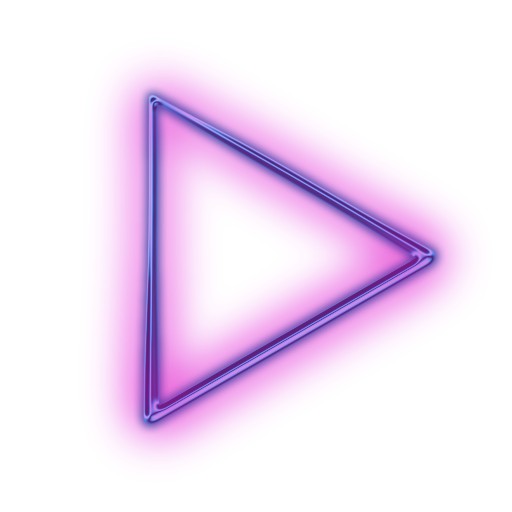
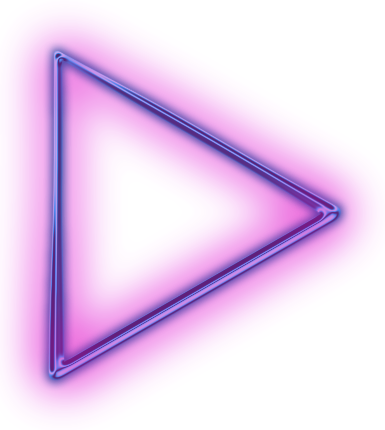
WCAG

diff --git a/styles/footer.scss b/styles/footer.scss
@@ -1,10 +1,12 @@
 footer {
-  background-image: url("./../assets/images/footer-bg.jpg");
+  //background-image: url("./../assets/images/footer-bg.jpg");
   width: 100%;
   height: 250px;
   border-top: 2px solid white;
   display: flex;
   overflow: hidden;
+
+  background: url('../assets/images/newGridBackground2.jpeg');
 
 
   .leftPanel {

diff --git a/styles/footer.css b/styles/footer.css
@@ -1,10 +1,10 @@
 footer {
-  background-image: url("./../assets/images/footer-bg.jpg");
   width: 100%;
   height: 250px;
   border-top: 2px solid white;
   display: flex;
   overflow: hidden;
+  background: url("../assets/images/newGridBackground2.jpeg");
 }
 footer .leftPanel {
   border-right: 1px solid rgba(255, 255, 255, 0.6);
